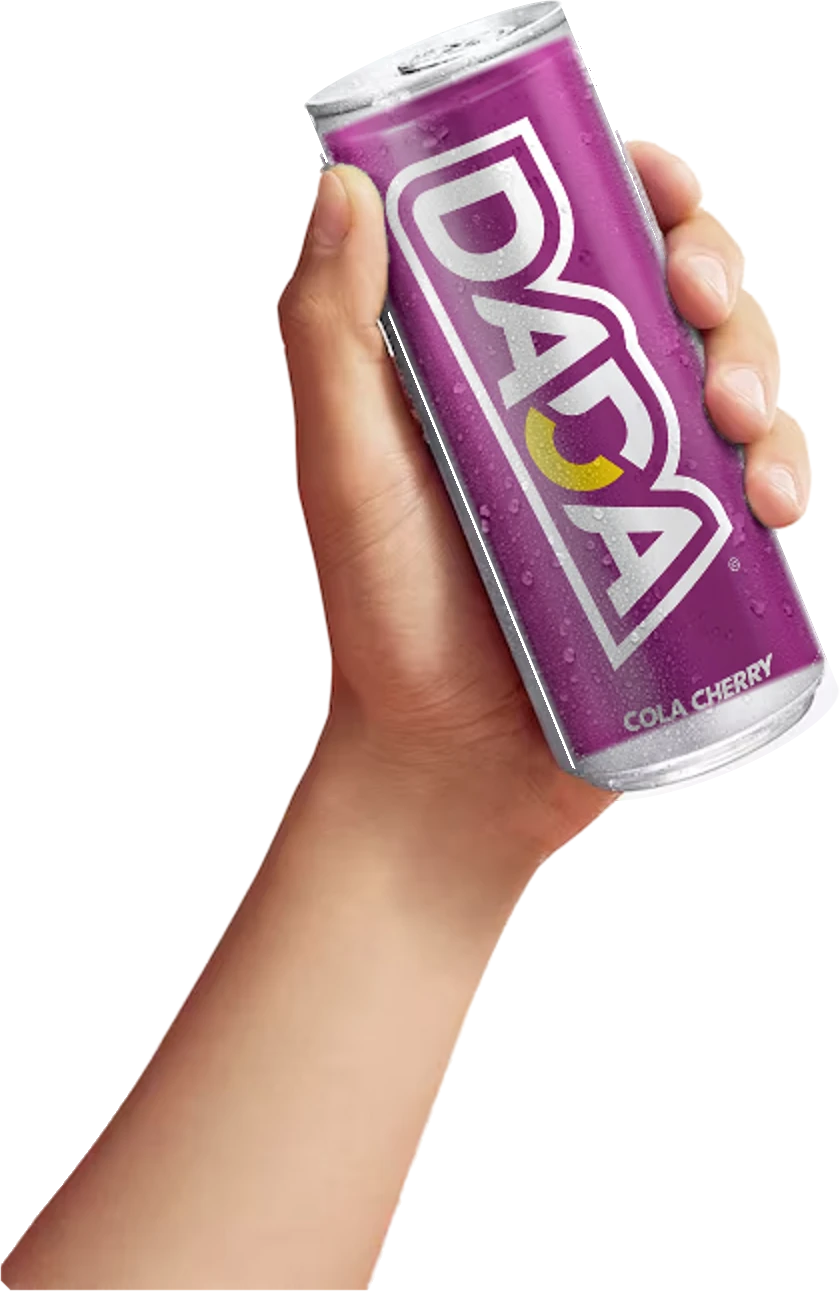
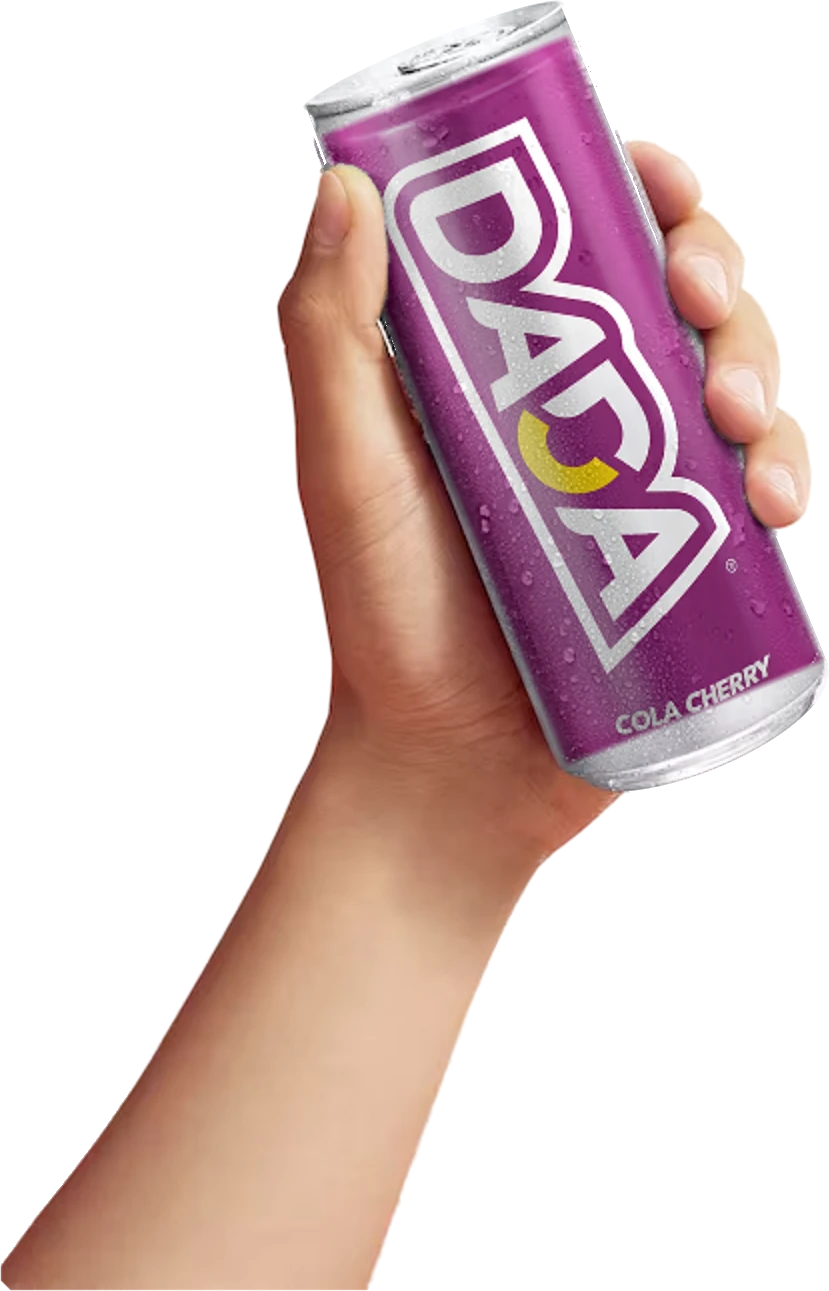
Bras : canette redétourée (bords mesurés sur la photo, perspective, couvercle et fond nets)
Claude-Session: https://claude.ai/code/session_01Lp2oVTbavkyW12Q8b8oBE2

diff --git a/app/globals.css b/app/globals.css
@@ -217,7 +217,7 @@ button { font-family: inherit; }
 .page-hero { background: radial-gradient(60% 80% at 85% 100%, color-mix(in srgb, var(--accent) 28%, transparent) 0%, transparent 70%), var(--ink); color: var(--paper); }
 .page-hero.has-decor { position: relative; overflow: hidden; }
 .page-hero.has-decor .page-hero-inner { position: relative; z-index: 1; }
-.hero-arm { position: absolute; right: clamp(0px, 6vw, 120px); bottom: 0; height: 94%; aspect-ratio: 840 / 1291; pointer-events: none;
+.hero-arm { position: absolute; right: clamp(0px, 6vw, 120px); bottom: 0; height: 94%; aspect-ratio: 829 / 1291; pointer-events: none;
   -webkit-mask-image: linear-gradient(to top, transparent 0, #000 14%); mask-image: linear-gradient(to top, transparent 0, #000 14%); }
 .hero-arm img { width: 100%; height: 100%; display: block; object-fit: contain; object-position: bottom; transform-origin: 30% 100%;
   filter: drop-shadow(0 24px 40px rgba(0,0,0,0.55)); animation: armRaise 1s cubic-bezier(.2,.8,.2,1) both, armFloat 5s ease-in-out 1s infinite; }

diff --git a/components/HeroArm.tsx b/components/HeroArm.tsx
@@ -3,7 +3,7 @@
 export default function HeroArm() {
   return (
     <div className="hero-arm" aria-hidden="true">
-      <img src="/brand/bras-canette.webp?v=2" alt="" width={840} height={1291} decoding="async" />
+      <img src="/brand/bras-canette.webp?v=3" alt="" width={829} height={1291} decoding="async" />
     </div>
   );
 }
